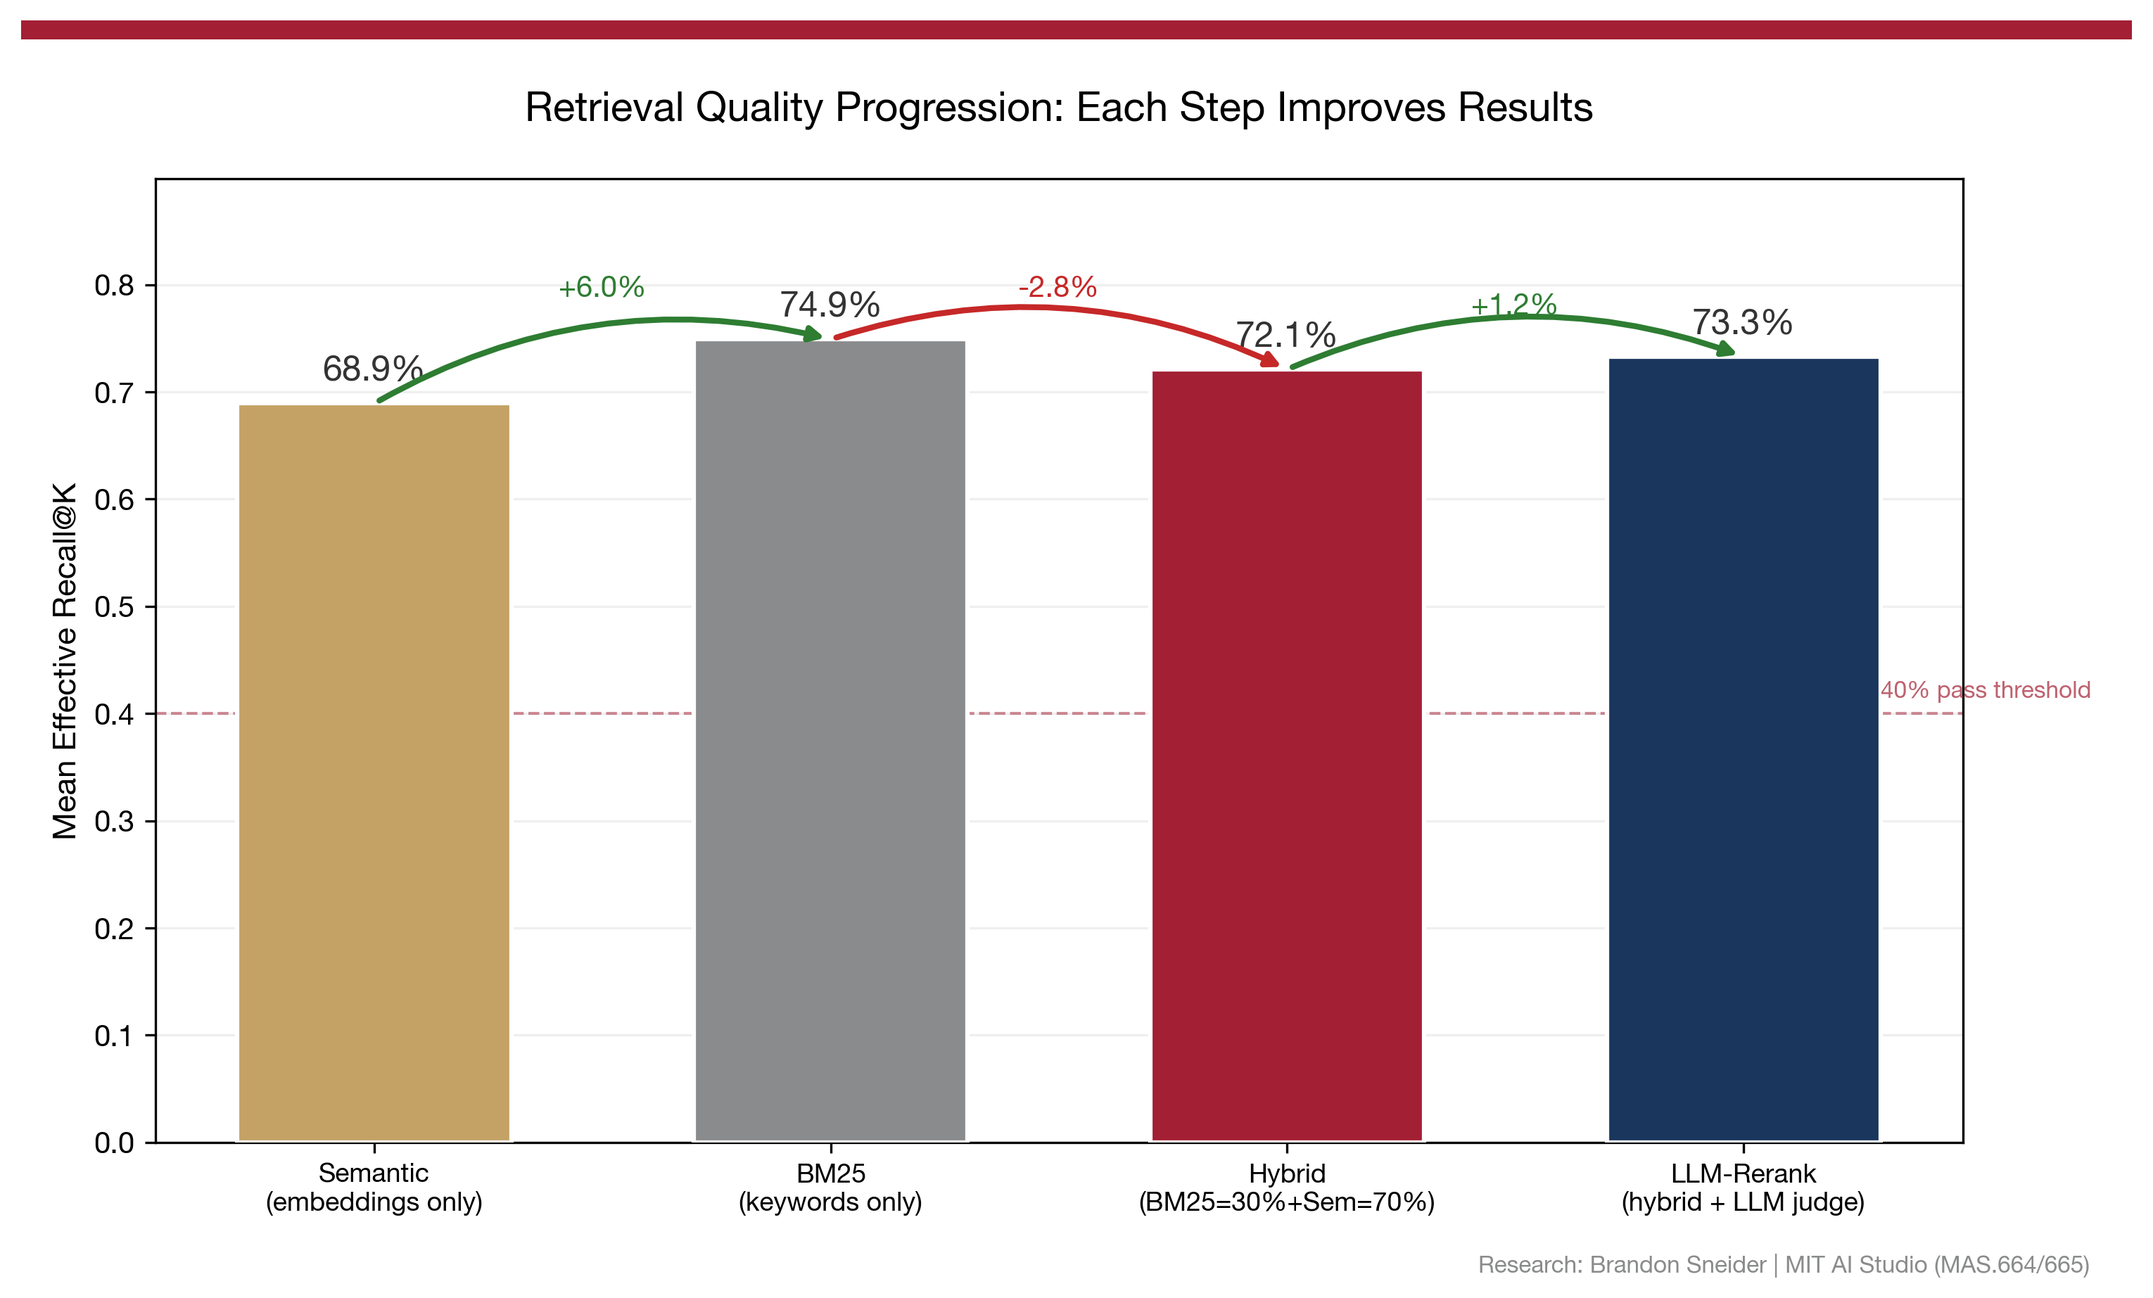
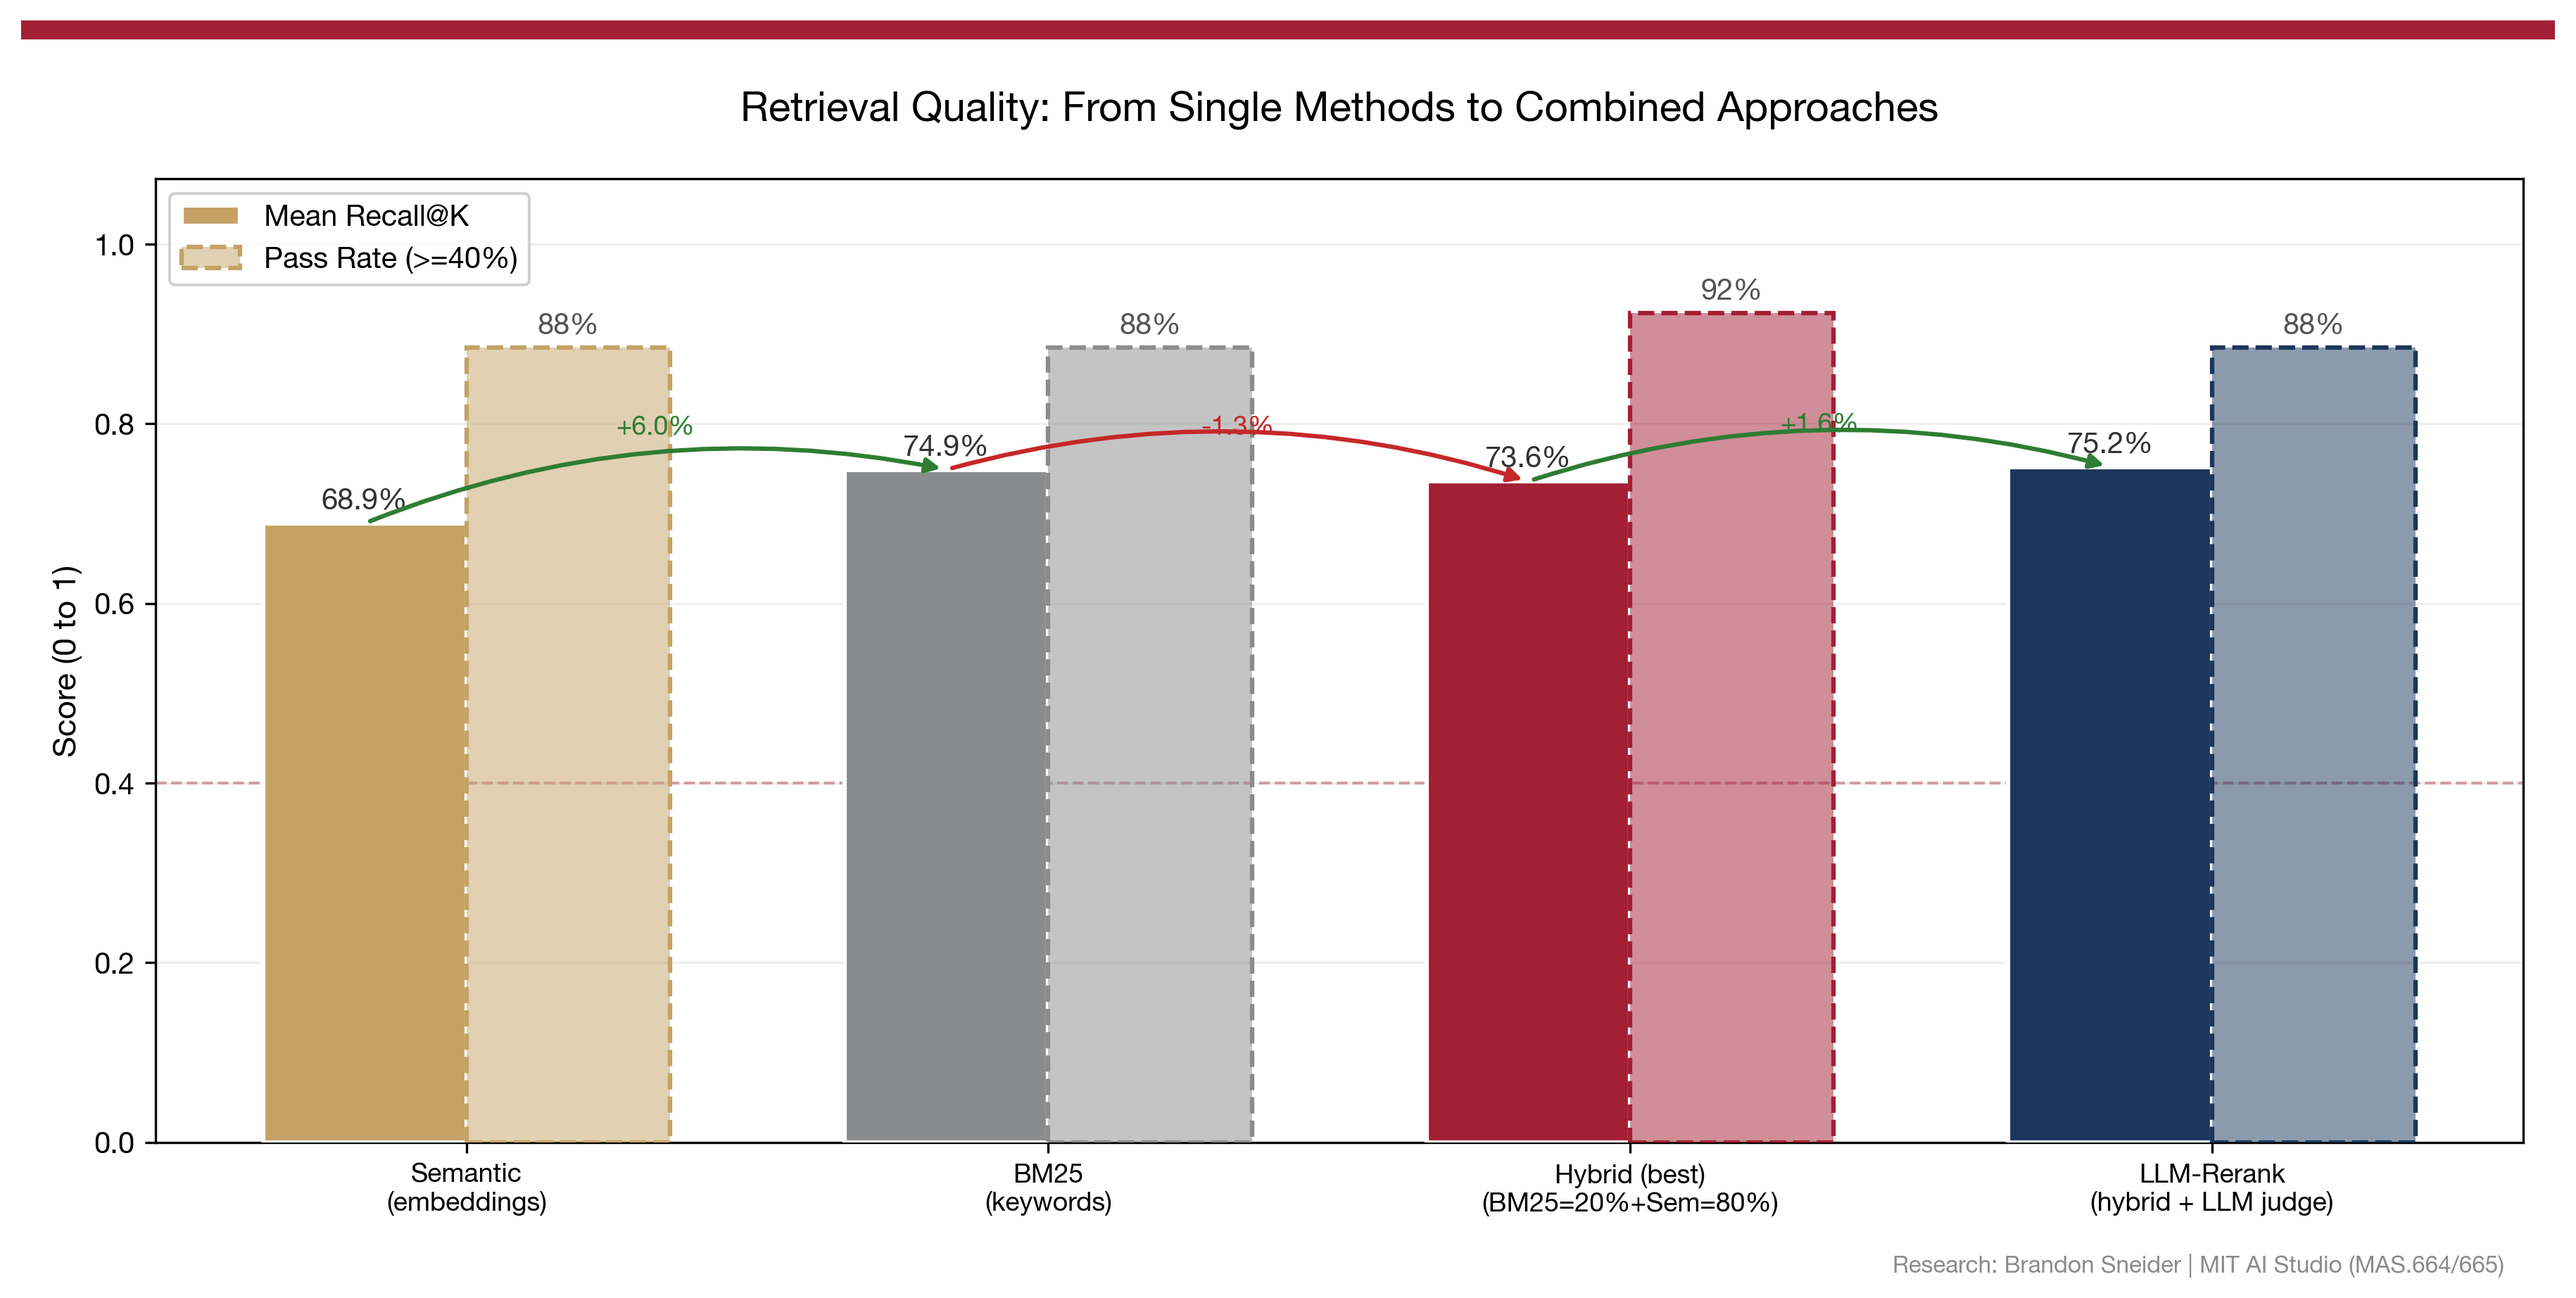
Add weight sweep and progression charts, fix Chart 6 dual-metric display
- Chart 5: BM25/Semantic weight sweep line chart showing optimal mix at
  sw=0.8 (73.6%) with LLM-Rerank ceiling reference line
- Chart 6: Dual-metric grouped bars (Recall + Pass Rate) showing trade-offs
  between approaches — Hybrid has highest pass rate (92%) despite lower recall
- Fix Chart 6 ordering: weakest baseline first for logical progression
- Fix Chart 1 L8 annotation positioning

diff --git a/scripts/generate_charts.py b/scripts/generate_charts.py
@@ -415,125 +415,113 @@ def chart_weight_sweep(data, output_dir):
 
 
 def chart_approach_progression(data, output_dir):
-    """Waterfall chart showing incremental improvement from BM25 -> Hybrid -> LLM-Rerank."""
+    """Grouped bar chart: Recall vs Pass Rate for each approach, showing trade-offs."""
     _setup_font()
 
     aggregates = data.get("aggregates", {})
     sweep = data.get("weight_sweep", [])
 
-    # Build progression stages — ordered to tell an "improvement" story:
-    # worst baseline -> better baseline -> hybrid combines both -> LLM tops it
+    # Build progression stages — ordered from single methods to combined
     stages = []
 
     # Determine which single-method baseline is weaker to put it first
     bm25_recall = aggregates.get("BM25", {}).get("Recall@K", 0)
+    bm25_pass = aggregates.get("BM25", {}).get("pass_rate", 0)
     sem_recall = aggregates.get("Semantic", {}).get("Recall@K", 0)
+    sem_pass = aggregates.get("Semantic", {}).get("pass_rate", 0)
 
     if sem_recall <= bm25_recall:
-        # Semantic is the weaker baseline
         if "Semantic" in aggregates:
-            stages.append({
-                "label": "Semantic\n(embeddings only)",
-                "recall": sem_recall,
-                "color": WARM_GOLD,
-            })
+            stages.append({"label": "Semantic\n(embeddings)", "recall": sem_recall,
+                           "pass_rate": sem_pass, "color": WARM_GOLD})
         if "BM25" in aggregates:
-            stages.append({
-                "label": "BM25\n(keywords only)",
-                "recall": bm25_recall,
-                "color": MIT_GRAY,
-            })
+            stages.append({"label": "BM25\n(keywords)", "recall": bm25_recall,
+                           "pass_rate": bm25_pass, "color": MIT_GRAY})
     else:
-        # BM25 is the weaker baseline
         if "BM25" in aggregates:
-            stages.append({
-                "label": "BM25\n(keywords only)",
-                "recall": bm25_recall,
-                "color": MIT_GRAY,
-            })
+            stages.append({"label": "BM25\n(keywords)", "recall": bm25_recall,
+                           "pass_rate": bm25_pass, "color": MIT_GRAY})
         if "Semantic" in aggregates:
-            stages.append({
-                "label": "Semantic\n(embeddings only)",
-                "recall": sem_recall,
-                "color": WARM_GOLD,
-            })
+            stages.append({"label": "Semantic\n(embeddings)", "recall": sem_recall,
+                           "pass_rate": sem_pass, "color": WARM_GOLD})
 
-    # Hybrid combines both — use best mix from sweep if available
+    # Best hybrid from sweep (or default)
     hybrid_pts = [p for p in sweep if p["kw"] is not None]
     if hybrid_pts:
         best = max(hybrid_pts, key=lambda p: p["mean_recall"])
-        stages.append({
-            "label": f"Hybrid\n(BM25={best['kw']:.0%}+Sem={best['sw']:.0%})",
-            "recall": best["mean_recall"],
-            "color": MIT_CRIMSON,
-        })
+        stages.append({"label": f"Hybrid (best)\n(BM25={best['kw']:.0%}+Sem={best['sw']:.0%})",
+                        "recall": best["mean_recall"], "pass_rate": best["pass_rate"],
+                        "color": MIT_CRIMSON})
     elif "Hybrid" in aggregates:
-        stages.append({
-            "label": "Hybrid\n(BM25=30%+Sem=70%)",
-            "recall": aggregates["Hybrid"]["Recall@K"],
-            "color": MIT_CRIMSON,
-        })
+        stages.append({"label": "Hybrid\n(BM25=30%+Sem=70%)",
+                        "recall": aggregates["Hybrid"]["Recall@K"],
+                        "pass_rate": aggregates["Hybrid"].get("pass_rate", 0),
+                        "color": MIT_CRIMSON})
 
-    # LLM-Rerank adds reasoning on top
+    # LLM-Rerank
     if "LLM-Rerank" in aggregates:
-        stages.append({
-            "label": "LLM-Rerank\n(hybrid + LLM judge)",
-            "recall": aggregates["LLM-Rerank"]["Recall@K"],
-            "color": DARK_NAVY,
-        })
+        stages.append({"label": "LLM-Rerank\n(hybrid + LLM judge)",
+                        "recall": aggregates["LLM-Rerank"]["Recall@K"],
+                        "pass_rate": aggregates["LLM-Rerank"].get("pass_rate", 0),
+                        "color": DARK_NAVY})
 
     if len(stages) < 2:
         print("  Chart 6 skipped: not enough approaches for progression")
         return None
 
-    fig, ax = plt.subplots(figsize=(10, 6))
+    fig, ax = plt.subplots(figsize=(12, 6))
 
     x = np.arange(len(stages))
-    bar_vals = [s["recall"] for s in stages]
+    bar_w = 0.35
+
+    # Recall bars (left)
+    recall_vals = [s["recall"] for s in stages]
     colors = [s["color"] for s in stages]
-    labels = [s["label"] for s in stages]
+    bars_r = ax.bar(x - bar_w / 2, recall_vals, bar_w, color=colors,
+                    edgecolor="white", linewidth=1.5, zorder=3, label="Mean Recall@K")
 
-    bars = ax.bar(x, bar_vals, width=0.6, color=colors, edgecolor="white",
-                  linewidth=1.5, zorder=3)
+    # Pass rate bars (right, lighter shade)
+    pass_vals = [s["pass_rate"] for s in stages]
+    light_colors = [c + "80" for c in colors]  # add alpha via hex
+    bars_p = ax.bar(x + bar_w / 2, pass_vals, bar_w, color=light_colors,
+                    edgecolor=[c for c in colors], linewidth=1.5, linestyle="--",
+                    zorder=3, label="Pass Rate (>=40%)")
 
-    # Value labels on bars
-    for bar, val in zip(bars, bar_vals):
-        ax.text(bar.get_x() + bar.get_width() / 2, bar.get_height() + 0.015,
-                f"{val:.1%}", ha="center", va="bottom", fontsize=12,
+    # Value labels
+    for bar, val in zip(bars_r, recall_vals):
+        ax.text(bar.get_x() + bar.get_width() / 2, bar.get_height() + 0.01,
+                f"{val:.1%}", ha="center", va="bottom", fontsize=10,
                 fontweight="bold", color="#333333")
+    for bar, val in zip(bars_p, pass_vals):
+        ax.text(bar.get_x() + bar.get_width() / 2, bar.get_height() + 0.01,
+                f"{val:.0%}", ha="center", va="bottom", fontsize=10,
+                fontweight="bold", color="#555555")
 
-    # Delta arrows between stages
+    # Recall delta arrows (between recall bars only)
     for i in range(1, len(stages)):
-        prev = bar_vals[i - 1]
-        curr = bar_vals[i]
+        prev = recall_vals[i - 1]
+        curr = recall_vals[i]
         delta = curr - prev
         sign = "+" if delta >= 0 else ""
-        mid_y = (prev + curr) / 2
         color = "#2e7d32" if delta >= 0 else "#c62828"
-
+        mid_x = (i - 1 + i) / 2 - bar_w / 2
         ax.annotate(
-            "", xy=(i, curr), xytext=(i - 1, prev),
-            arrowprops=dict(
-                arrowstyle="-|>", color=color, lw=2,
-                connectionstyle="arc3,rad=-0.2",
-            ),
+            "", xy=(i - bar_w / 2, curr), xytext=(i - 1 - bar_w / 2, prev),
+            arrowprops=dict(arrowstyle="-|>", color=color, lw=1.5,
+                            connectionstyle="arc3,rad=-0.15"),
         )
-        # Delta text along the arrow
-        mid_x = (i - 1 + i) / 2
         ax.text(mid_x, max(prev, curr) + 0.04, f"{sign}{delta:.1%}",
-                ha="center", fontsize=10, fontweight="bold", color=color)
+                ha="center", fontsize=9, fontweight="bold", color=color)
 
-    # Pass threshold
-    ax.axhline(y=0.4, color=MIT_CRIMSON, linestyle="--", linewidth=1, alpha=0.5, zorder=2)
-    ax.text(len(stages) - 0.7, 0.415, "40% pass threshold", fontsize=8,
-            color=MIT_CRIMSON, alpha=0.7)
+    ax.axhline(y=0.4, color=MIT_CRIMSON, linestyle="--", linewidth=1, alpha=0.4, zorder=2)
 
     ax.set_xticks(x)
-    ax.set_xticklabels(labels, fontsize=9)
-    ax.set_ylabel("Mean Effective Recall@K", fontsize=11)
+    ax.set_xticklabels([s["label"] for s in stages], fontsize=9)
+    ax.set_ylabel("Score (0 to 1)", fontsize=11)
     ax.set_title("Retrieval Quality: From Single Methods to Combined Approaches",
                   fontsize=14, fontweight="bold", pad=20)
-    ax.set_ylim(0, max(bar_vals) + 0.15)
+    ax.set_ylim(0, max(max(recall_vals), max(pass_vals)) + 0.15)
+    ax.legend(loc="upper left", framealpha=0.9, fontsize=10)
     ax.grid(axis="y", alpha=0.2, zorder=0)
     ax.set_axisbelow(True)
 
